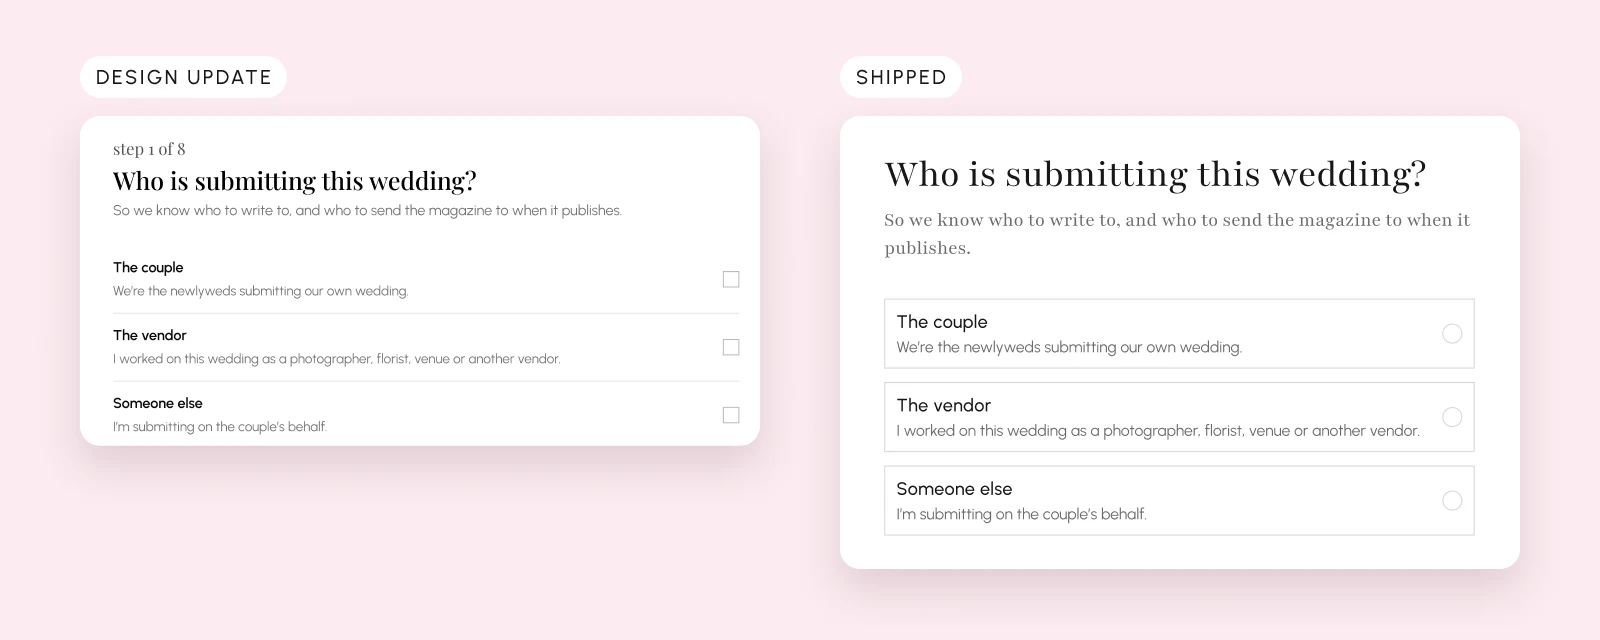
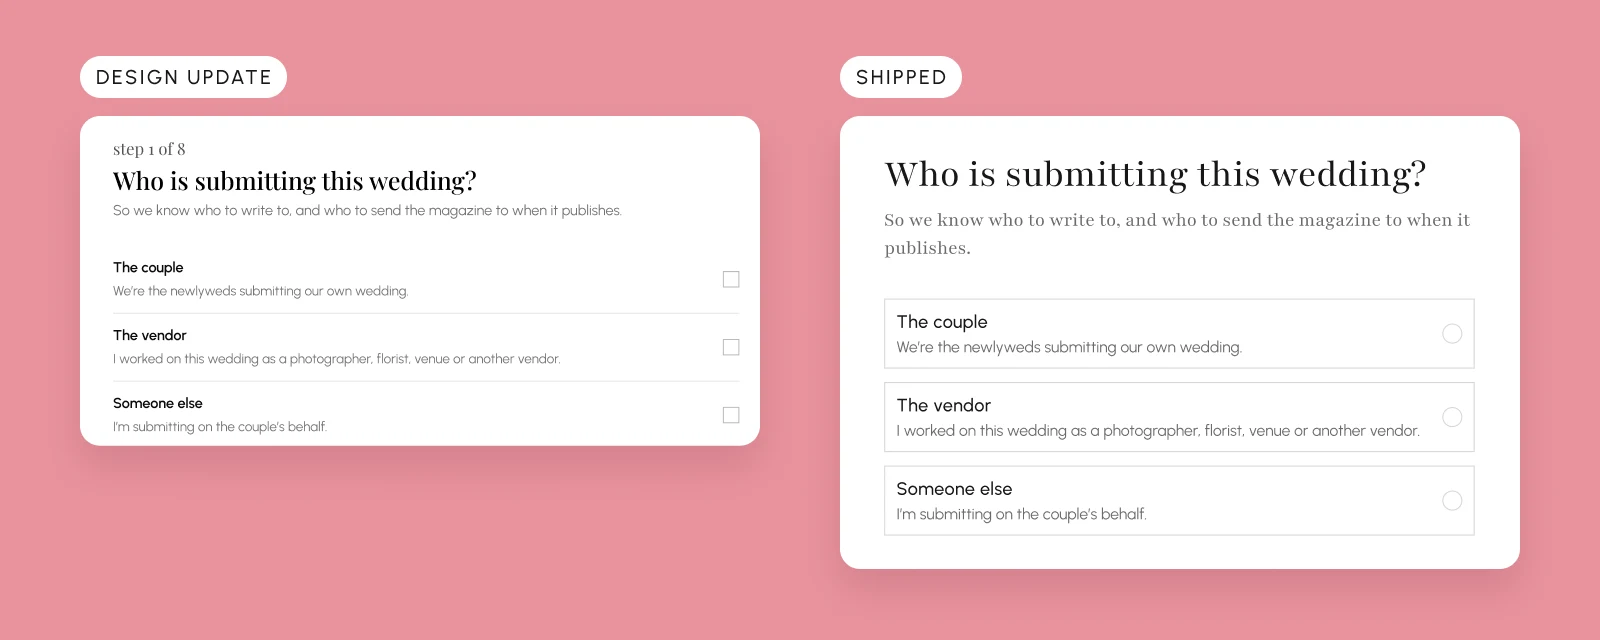
style(work): use the cover pink across case study visuals

diff --git a/src/features/doc/components/vendor-credit-demo.tsx b/src/features/doc/components/vendor-credit-demo.tsx
@@ -54,7 +54,7 @@ export function VendorCreditDemo({ caption }: { caption?: React.ReactNode }) {
       <div
         ref={frame}
         className={cn(
-          "flex justify-center rounded-xl bg-[#fbebf0] px-4 py-10 inset-ring-1 inset-ring-black/15 sm:px-10 dark:inset-ring-white/15",
+          "flex justify-center rounded-xl bg-[#e9939e] px-4 py-10 inset-ring-1 inset-ring-black/15 sm:px-10 dark:inset-ring-white/15",
           urbanist.className
         )}
         style={{ color: INK }}

diff --git a/src/components/mdx-step-transition.tsx b/src/components/mdx-step-transition.tsx
@@ -109,7 +109,7 @@ export function StepTransition({
     <figure className="not-prose my-8">
       <div
         ref={frame}
-        className="flex justify-center rounded-xl bg-[#fbebf0] px-6 py-10 inset-ring-1 inset-ring-black/15 dark:inset-ring-white/15"
+        className="flex justify-center rounded-xl bg-[#e9939e] px-6 py-10 inset-ring-1 inset-ring-black/15 dark:inset-ring-white/15"
         role="img"
         aria-label={alt}
       >
